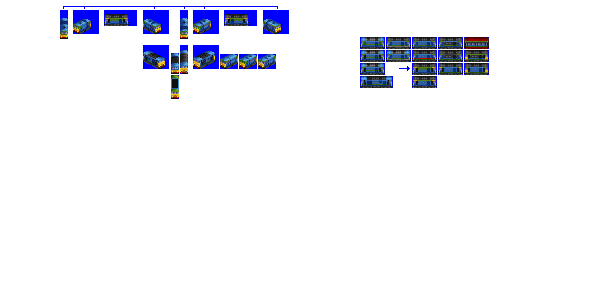
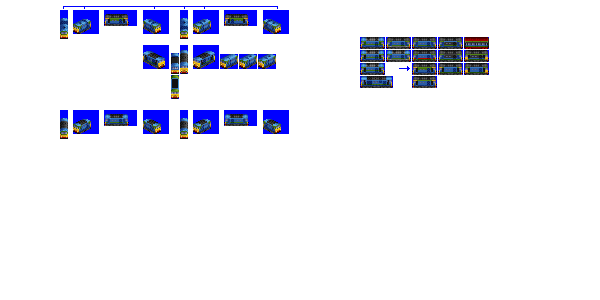
Change: sprites complete for Kelpie

Changed region(s): [[0.09, 0.36, 0.48, 0.48]]

diff --git a/src/vehicles/kelpie.py b/src/vehicles/kelpie.py
@@ -12,7 +12,7 @@ consist = EngineConsist(id='kelpie',
                         random_reverse=True,
                         intro_date_offset=-2, # let's not have everything turn up in 1960
                         gen=4,
-                        sprites_complete=False)
+                        sprites_complete=True)
 
 consist.add_unit(type=DieselEngineUnit,
                  weight=72,
